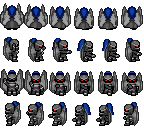
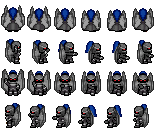
Half Dragon animations Down, Left, Right have been tweaked

diff --git a/src/GameState/InGame.cs b/src/GameState/InGame.cs
@@ -44,7 +44,7 @@ class InGame
         MapMesh = new PathFindingMesh(@"maps\mesh.xml",Map.BaseMap.Width,Map.BaseMap.Height);
         
         FloorItems = new LinkedList<Item>();
-        for (int i = 0; i != 100; i++)
+        for (int i = 0; i != 2; i++)
         {
             //knives
             BasicMeleeWeapon b = BasicMeleeWeapon.generateBasicWeapon(5,0.1);
@@ -72,7 +72,7 @@ class InGame
         {
             BeachZombie bz = new BeachZombie(250, 230);
             bz.Stats.AwardSpdXP((bz.Stats.XPPerSkill/2) * -i);
-       //     NPCList.AddFirst(bz);
+            NPCList.AddFirst(bz);
 
         }
         SoundManager.Play("night.ogg", true);
@@ -157,20 +157,7 @@ class InGame
             i.DrawOnFloor(sb, cameraX, cameraY);
         }
 
-        //draw y ordered items
-        for (int floor = 0; floor != Map.BaseMap.Height; floor++)
-        {
-            Map.DrawObjects(sb, cameraX, cameraY, floor);
-            foreach (PC p in allPlayers())
-            {
-                p.Draw(sb, cameraX, cameraY,floor);
-            }
-
-            foreach (NPC p in NPCList)
-            {
-                p.Draw(sb, cameraX, cameraY, floor);
-            }
-        }   
+        drawYOrderedItems(sb,cameraX,cameraY);
         // draw the always map.
         Map.DrawAlways(sb, cameraX, cameraY);
     }
@@ -200,6 +187,23 @@ class InGame
             coords.AddLast(new int[2] { p.X, p.Y });
         }
         return coords;
+    }
 
+    private void drawYOrderedItems(AD2SpriteBatch sb, int cameraX, int cameraY)
+    {
+        //draw y ordered items
+        for (int floor = 0; floor != Map.BaseMap.Height; floor++)
+        {
+            Map.DrawObjects(sb, cameraX, cameraY, floor);
+            foreach (PC p in allPlayers())
+            {
+                p.Draw(sb, cameraX, cameraY, floor);
+            }
+
+            foreach (NPC p in NPCList)
+            {
+                p.Draw(sb, cameraX, cameraY, floor);
+            }
+        }
     }
 }

diff --git a/src/Creature/PC.cs b/src/Creature/PC.cs
@@ -4,7 +4,7 @@ using CastleUtils;
 
 public class PC : Creature
 {
-    public static readonly bool HandDebug = false;
+    public static readonly bool HandDebug = true;
     public static readonly double AttackMovementPercent = 0.5;
     public static readonly int PunchFrames = 60;
     public enum PlayerState { IDLE, WALKING, USING };
@@ -454,7 +454,8 @@ public class PC : Creature
 
             for (int frame = 0; frame != 6; frame++)
             {
-                SwingingHandPositions[dir, frame, 0] = retrieveHandCoords(hands, "swing", dir, frame, true) % 24;
+                //DIRTY TODO FIX: HAlf Dragon has length -> 26 
+                SwingingHandPositions[dir, frame, 0] = retrieveHandCoords(hands, "swing", dir, frame, true) % (Race.Equals(RaceUtils.Race.Dragon) ? 26 : 24);
                 SwingingHandPositions[dir, frame, 1] = retrieveHandCoords(hands, "swing", dir, frame, false) % 32;
             }
 
